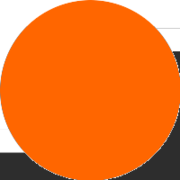
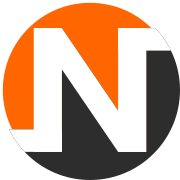
Update build config: NeroHedge rebrand, Safari 15 target, SW v14
- Rename app to NeroHedge in Capacitor config
- Target es2020+safari15 instead of esnext for broader compatibility
- Bump service worker cache to v14
- Optimized PWA icons (smaller file sizes)
- Gitignore deploy-staging.sh and CLAUDE.md

diff --git a/public/sw.js b/public/sw.js
@@ -1,5 +1,5 @@
 // Nerodolla service worker — network-first for HTML, cache-first for hashed assets
-const CACHE = 'nerohedge-v8';
+const CACHE = 'nerohedge-v14';
 
 self.addEventListener('install', e => {
   // Skip waiting so new SW activates immediately

diff --git a/capacitor.config.ts b/capacitor.config.ts
@@ -2,7 +2,7 @@ import type { CapacitorConfig } from '@capacitor/cli';
 
 const config: CapacitorConfig = {
   appId: 'xyz.nerodolla.wallet',
-  appName: 'Nerodolla',
+  appName: 'NeroHedge',
   webDir: 'dist',
   server: {
     androidScheme: 'http',

diff --git a/vite.config.ts b/vite.config.ts
@@ -36,7 +36,7 @@ export default defineConfig({
     },
   },
   build: {
-    target: 'esnext',
+    target: ['es2020', 'safari15'],
     rollupOptions: {
       external: ['monero-ts'],
       output: {
